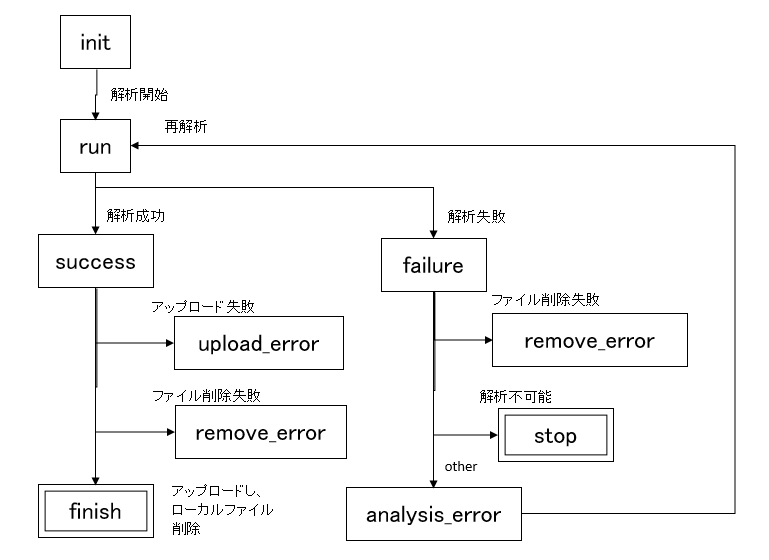
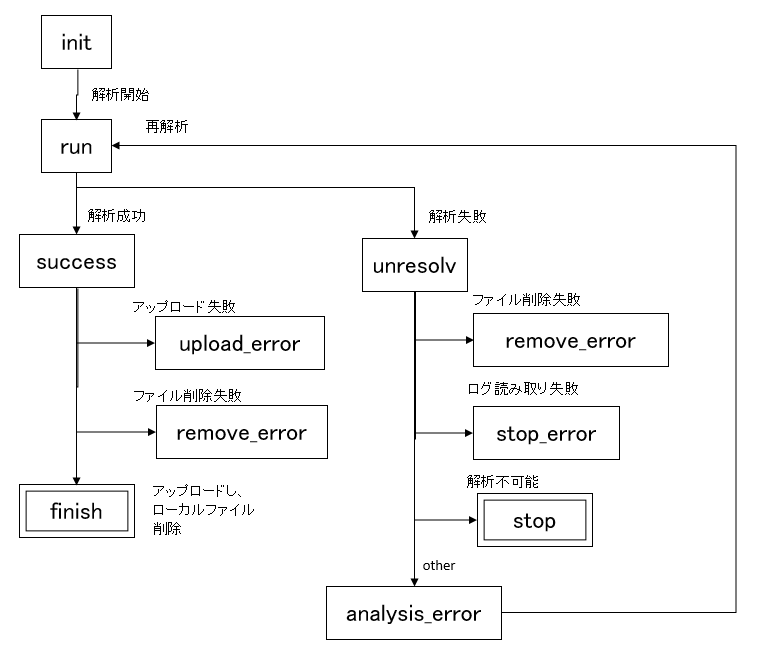
rename status failure->unresilv, add _filt_qacct to regist_job, add each-error tables to monitor.

diff --git a/tests/unit_tests.py b/tests/unit_tests.py
@@ -55,18 +55,18 @@ class OtomoTest(unittest.TestCase):
         # set status
         otomo.analysis_status.set_status_request("SRP219151_SRR10015386", "run", stage="fastq")
         otomo.analysis_status.set_status_request("SRP219151_SRR10015386", "run", stage="star")
-        otomo.analysis_status.set_status_request("SRP219151_SRR10015386", "failure")
+        otomo.analysis_status.set_status_request("SRP219151_SRR10015386", "unresolv")
 
         otomo.analysis_status.set_status_request("SRP219151_SRR10015396", "run", stage="fastq")
         otomo.analysis_status.set_status_request("SRP219151_SRR10015396", "run", stage="star")
         otomo.analysis_status.set_status_request("SRP219151_SRR10015396", "run", stage="expression")
-        otomo.analysis_status.set_status_request("SRP219151_SRR10015396", "failure")
+        otomo.analysis_status.set_status_request("SRP219151_SRR10015396", "unresolv")
 
         otomo.analysis_status.set_status_request("SRP219151_SRR10015394", "run", stage="fastq")
         otomo.analysis_status.set_status_request("SRP219151_SRR10015394", "run", stage="star")
         otomo.analysis_status.set_status_request("SRP219151_SRR10015394", "run", stage="expression")
         otomo.analysis_status.set_status_request("SRP219151_SRR10015394", "run", stage="ir_count")
-        otomo.analysis_status.set_status_request("SRP219151_SRR10015394", "failure")
+        otomo.analysis_status.set_status_request("SRP219151_SRR10015394", "unresolv")
 
         subprocess.check_call("otomo analysis --sample SRP219151_SRR10015388 --status run --stage fastq", shell=True)
         subprocess.check_call("otomo analysis --sample SRP219151_SRR10015388 --status run --stage star", shell=True)
@@ -98,7 +98,7 @@ class OtomoTest(unittest.TestCase):
         subprocess.check_call("otomo analysis --sample SRP219151_SRR10015398 --status run --stage fastq", shell=True)
         subprocess.check_call("otomo analysis --commit", shell=True)
 
-        ret_sample = otomo.analysis_status.get_sample_w_status("failure")
+        ret_sample = otomo.analysis_status.get_sample_w_status("unresolv")
         self.assertEqual (ret_sample, ["SRP219151_SRR10015386","SRP219151_SRR10015394", "SRP219151_SRR10015396"])
 
         ret_sample = otomo.analysis_status.get_sample_w_status("success")
@@ -115,9 +115,9 @@ class OtomoTest(unittest.TestCase):
         self.assertEqual (ret_sample["run"]["fastq"], 1)
         self.assertEqual (ret_sample["run"]["star"], 1)
         self.assertEqual (ret_sample["success"]["juncmut"], 3)
-        self.assertEqual (ret_sample["failure"]["star"], 1)
-        self.assertEqual (ret_sample["failure"]["ir_count"], 1)
-        self.assertEqual (ret_sample["failure"]["expression"], 1)
+        self.assertEqual (ret_sample["unresolv"]["star"], 1)
+        self.assertEqual (ret_sample["unresolv"]["ir_count"], 1)
+        self.assertEqual (ret_sample["unresolv"]["expression"], 1)
 
         # reduction
         os.makedirs("%s/fastq/%s" % (output_dir, "SRP219151_SRR10015386"), exist_ok = True)
@@ -210,10 +210,10 @@ class OtomoTest(unittest.TestCase):
         subprocess.check_call("otomo setup --wdir %s" % (output_dir), shell=True)
         subprocess.check_call("otomo regsample --samples %s" % (samples2), shell=True)
 
-        otomo.analysis_status.set_status_request("SRP212755_SRR10080437", "failure")
+        otomo.analysis_status.set_status_request("SRP212755_SRR10080437", "unresolv")
         otomo.analysis_status.set_status_commit()
         subprocess.check_call("otomo regsample --samples %s" % (samples2), shell=True)
-        ret_sample = otomo.analysis_status.get_sample_w_status("failure")
+        ret_sample = otomo.analysis_status.get_sample_w_status("unresolv")
         self.assertEqual (ret_sample, ["SRP212755_SRR10080437"])
 
         # job

diff --git a/scripts/otomo/setup.py b/scripts/otomo/setup.py
@@ -78,14 +78,24 @@ def create_db_monitor(db):
     cur = con.cursor()
     cur.execute("DROP TABLE IF EXISTS success")
     cur.execute("create table success (%s)" % (",".join(otomo.CONFIG.MONITOR_COLUMNS_INT)))
-    cur.execute("DROP TABLE IF EXISTS error")
-    cur.execute("create table error (%s)" % (",".join(otomo.CONFIG.MONITOR_COLUMNS_INT)))
     cur.execute("DROP TABLE IF EXISTS stop")
     cur.execute("create table stop (%s)" % (",".join(otomo.CONFIG.MONITOR_COLUMNS_INT)))
     cur.execute("DROP TABLE IF EXISTS job_count")
     cur.execute("create table job_count (%s)" % (",".join(otomo.CONFIG.MONITOR_COLUMNS_INT)))
     cur.execute("DROP TABLE IF EXISTS hdd_usage")
     cur.execute("create table hdd_usage (%s)" % (",".join(otomo.CONFIG.MONITOR_COLUMNS_REAL)))
+#    cur.execute("DROP TABLE IF EXISTS error")
+#    cur.execute("create table error (%s)" % (",".join(otomo.CONFIG.MONITOR_COLUMNS_INT)))
+    cur.execute("DROP TABLE IF EXISTS unresolv")
+    cur.execute("create table unresolv (%s)" % (",".join(otomo.CONFIG.MONITOR_COLUMNS_INT)))
+    cur.execute("DROP TABLE IF EXISTS analysis_error")
+    cur.execute("create table analysis_error (%s)" % (",".join(otomo.CONFIG.MONITOR_COLUMNS_INT)))
+    cur.execute("DROP TABLE IF EXISTS stop_error")
+    cur.execute("create table stop_error (%s)" % (",".join(otomo.CONFIG.MONITOR_COLUMNS_INT)))
+    cur.execute("DROP TABLE IF EXISTS upload_error")
+    cur.execute("create table upload_error (%s)" % (",".join(otomo.CONFIG.MONITOR_COLUMNS_INT)))
+    cur.execute("DROP TABLE IF EXISTS remove_error")
+    cur.execute("create table remove_error (%s)" % (",".join(otomo.CONFIG.MONITOR_COLUMNS_INT)))
 
     con.commit()
     con.close()

diff --git a/scripts/otomo/regist_job.py b/scripts/otomo/regist_job.py
@@ -162,12 +162,37 @@ def _main(qacct_path, conf_file=otomo.CONFIG.DEFAULT_CONF):
     if item["jobnumber"] != "" and item["jobname"] != "QLOGIN":
         __insert_job(item, db)
 
+def _filt_qacct(input_qacct, output_qacct, limit = 0):
+    f = open(input_qacct)
+    fw = open(output_qacct, "w")
+    queue = ""
+    ok = False
+    base_time = datetime.datetime.now() - datetime.timedelta(minutes=limit)
+    for row in f.readlines():
+        if row.startswith("="):
+            if ok:
+                fw.write(queue)
+            queue = ""
+            ok = False
+        elif row.startswith("end_time"):
+            text = row.split(" ")[-2] + " " + row.rstrip().split(" ")[-1]
+            end_time = __text_to_date(text)
+            if end_time > base_time or limit == 0:
+                ok = True
+        queue += row
+    if ok:
+        fw.write(queue)
+    fw.close()
+    f.close()
+
 def main(args):
     """
     command line I/F : qacctの結果をjob-DBに登録する。すでにDBに登録されている場合、変更なし。
     qacct -j "*" -o USER > qacct.txt 
     """
-    _main(args.qacct, args.conf)
+    filt = args.qacct + ".filt"
+    _filt_qacct(args.qacct, filt, args.limit)
+    _main(filt, args.conf)
 
 if __name__ == "__main__":
     pass

diff --git a/scripts/otomo/reduction.py b/scripts/otomo/reduction.py
@@ -44,7 +44,7 @@ def __stop(sample, wdir):
     last_log_file = log_files[0]
     stage = last_log_file.split("/")[-1].split(".")[0]
     
-    f = open(last_log_file)
+    f = open(last_log_file, encoding="utf-8", errors="replace")
     log = f.read()
     f.close()
 
@@ -77,7 +77,7 @@ def __remove(sample, stages, wdir):
 
 def main(args):
     """
-    command line I/F : ステータスが "failure" のサンプルについて、
+    command line I/F : ステータスが "unresolv" のサンプルについて、
     1) ログファイルを元に解析不可能か判断し、解析不可能であればステータスを "stop" に更新する。
        解析不可能でなければステータスを "analysis_error" に更新する。
     2) ローカルの出力ファイルを削除する。ローカルの出力ファイル削除に失敗した場合、ステータスを "remove_error" に更新する
@@ -88,6 +88,7 @@ def main(args):
     wdir = conf.get("work", "dir")
 
     samples = otomo.analysis_status.get_sample_w_status("failure")
+    samples += otomo.analysis_status.get_sample_w_status("unresolv")
     for sample in samples:
         try:
             stop_reason = __stop(sample, wdir)

diff --git a/scripts/otomo/CONFIG.py b/scripts/otomo/CONFIG.py
@@ -85,7 +85,7 @@ label = NAME
 [upload]
 endpoint_url = 
 profile = 
-remove_dirs = fastq,star,expression,ir_count,iravnet,juncmut
+remove_dirs = fastq,star,expression,ir_count,iravnet,juncmut,join
 
 """.format(wdir = wdir.rstrip("/")))
     f.close()

diff --git a/scripts/otomo/__init__.py b/scripts/otomo/__init__.py
@@ -1,1 +1,1 @@
-__version__ = '0.0.4'
+__version__ = '0.0.5'
